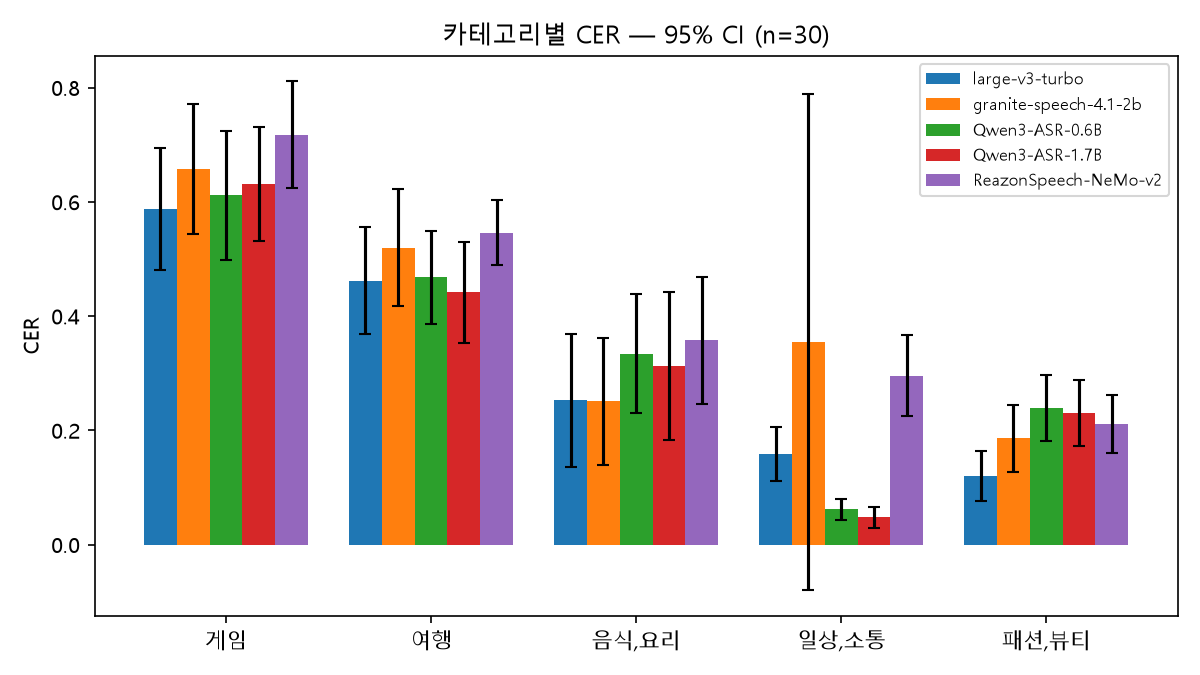
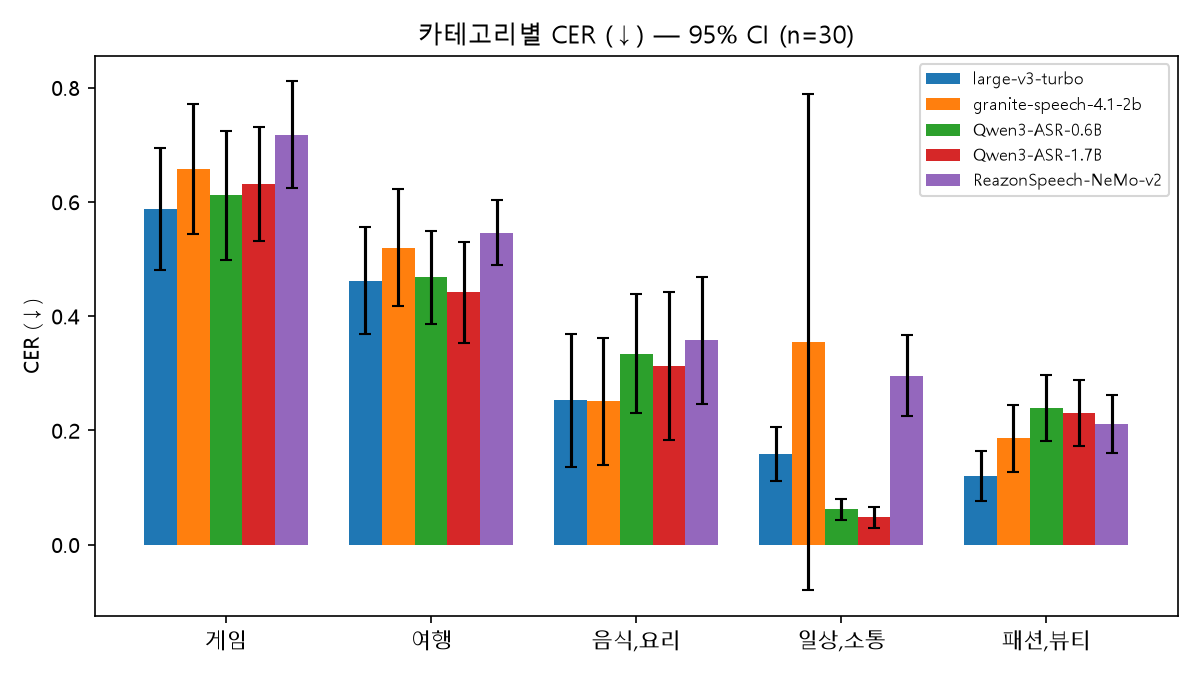
Plot per-category breakdowns for all 4 quality metrics, not just CER
Previously only category_cer.png existed for the per-category view; chrF++,
BLEU(char), and ROUGE-L were only shown as overall bars. Generalized the
category chart generation in analyze_ci_and_plot.py into a loop over all 4
metrics, producing category_chrf.png / category_bleu.png / category_rouge_l.png
alongside category_cer.png. category_chrf.png makes visible why turbo's overall
chrF++ came out lowest of the top 4 despite winning on CER/BLEU/ROUGE-L: it
trails or ties on 게임/여행/일상,소통 and only clearly leads on 음식,요리/패션,뷰티.

Changed region(s): [[0.3392, 0.0311, 0.7092, 0.0622], [0.0, 0.4667, 0.0308, 0.56]]

diff --git a/research/topic/20260826_stt_model_survey_gpu_full/src/analyze_ci_and_plot.py b/research/topic/20260826_stt_model_survey_gpu_full/src/analyze_ci_and_plot.py
@@ -45,6 +45,8 @@ LABELS = {
 N_BOOT = 500
 SEED = 42
 METRIC_KEYS = ["cer", "chrf++", "bleu_char", "rouge_l_f1"]
+METRIC_TITLES = {"cer": "CER (↓)", "chrf++": "chrF++ (↑)", "bleu_char": "BLEU(char) (↑)", "rouge_l_f1": "ROUGE-L F1 (↑)"}
+METRIC_FILE_TAGS = {"cer": "cer", "chrf++": "chrf", "bleu_char": "bleu", "rouge_l_f1": "rouge_l"}
 
 
 def load_rows(method: str) -> list[dict]:
@@ -108,7 +110,6 @@ def bar_chart(path: Path, title: str, group_labels: list[str], series: dict[str,
 def quant_metrics_chart(path: Path, overall_ci: dict) -> None:
     """One subplot per metric (own y-scale) — CER/ROUGE-L (0-1) and
     chrF++/BLEU (0-100) flatten to invisible bars on a shared axis."""
-    titles = {"cer": "CER (↓)", "chrf++": "chrF++ (↑)", "bleu_char": "BLEU(char) (↑)", "rouge_l_f1": "ROUGE-L F1 (↑)"}
     fig, axes = plt.subplots(1, len(METRIC_KEYS), figsize=(4 * len(METRIC_KEYS), 4.5))
     colors = plt.rcParams["axes.prop_cycle"].by_key()["color"]
     for ax, key in zip(axes, METRIC_KEYS):
@@ -117,7 +118,7 @@ def quant_metrics_chart(path: Path, overall_ci: dict) -> None:
         ax.bar(range(len(METHODS)), vals, yerr=errs, capsize=3, color=colors[: len(METHODS)])
         ax.set_xticks(range(len(METHODS)))
         ax.set_xticklabels([LABELS[m] for m in METHODS], rotation=30, ha="right", fontsize=8)
-        ax.set_title(titles[key])
+        ax.set_title(METRIC_TITLES[key])
     fig.suptitle("GPU 전체(150세그먼트) 정량 지표 — 95% CI")
     fig.tight_layout()
     fig.savefig(path, dpi=150)
@@ -149,13 +150,15 @@ def main() -> None:
     series = {LABELS[m]: ([overall_ci[m]["rtf"]["point"]], [overall_ci[m]["rtf"]["ci_halfwidth"]]) for m in METHODS}
     bar_chart(FIG_ROOT / "rtf.png", "RTF (GPU) — 95% CI, 낮을수록 빠름", ["RTF"], series, "RTF")
 
-    # category_cer.png
-    series = {}
-    for m in METHODS:
-        vals = [category_ci[m][cat]["cer"]["point"] for cat in CATEGORIES]
-        errs = [category_ci[m][cat]["cer"]["ci_halfwidth"] for cat in CATEGORIES]
-        series[LABELS[m]] = (vals, errs)
-    bar_chart(FIG_ROOT / "category_cer.png", "카테고리별 CER — 95% CI (n=30)", CATEGORIES, series, "CER")
+    # category_<metric>.png — one bar chart per metric, all methods x categories
+    for key in METRIC_KEYS:
+        series = {}
+        for m in METHODS:
+            vals = [category_ci[m][cat][key]["point"] for cat in CATEGORIES]
+            errs = [category_ci[m][cat][key]["ci_halfwidth"] for cat in CATEGORIES]
+            series[LABELS[m]] = (vals, errs)
+        fname = f"category_{METRIC_FILE_TAGS[key]}.png"
+        bar_chart(FIG_ROOT / fname, f"카테고리별 {METRIC_TITLES[key]} — 95% CI (n=30)", CATEGORIES, series, METRIC_TITLES[key])
 
     # print markdown-ready tables
     print("### 전체 (95% CI)\n")
